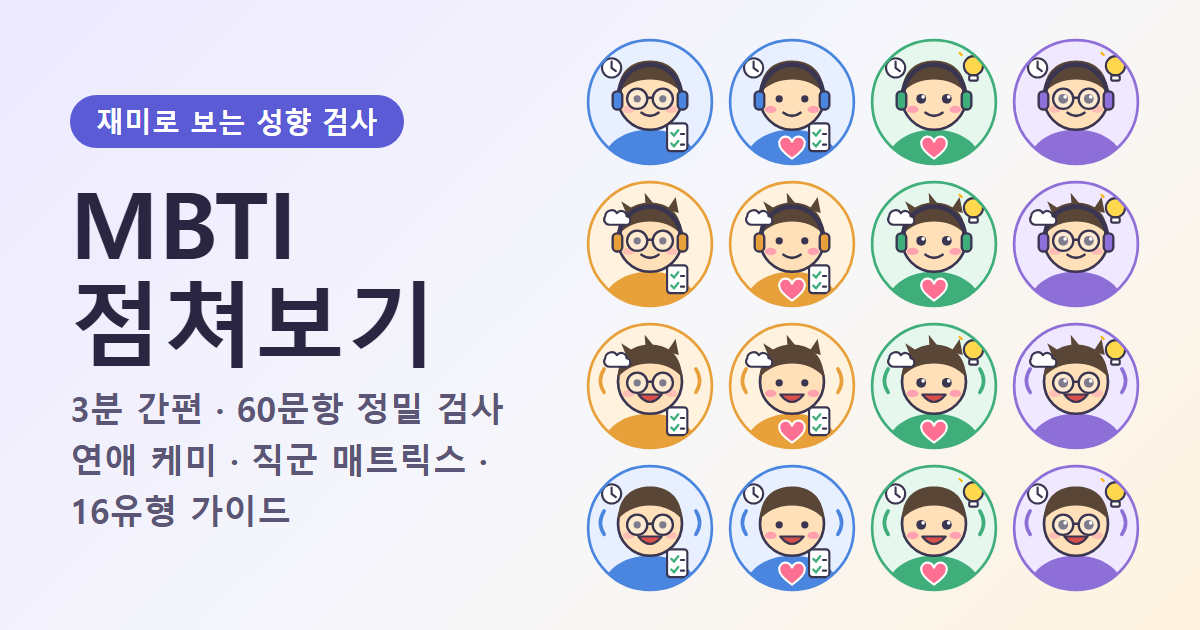
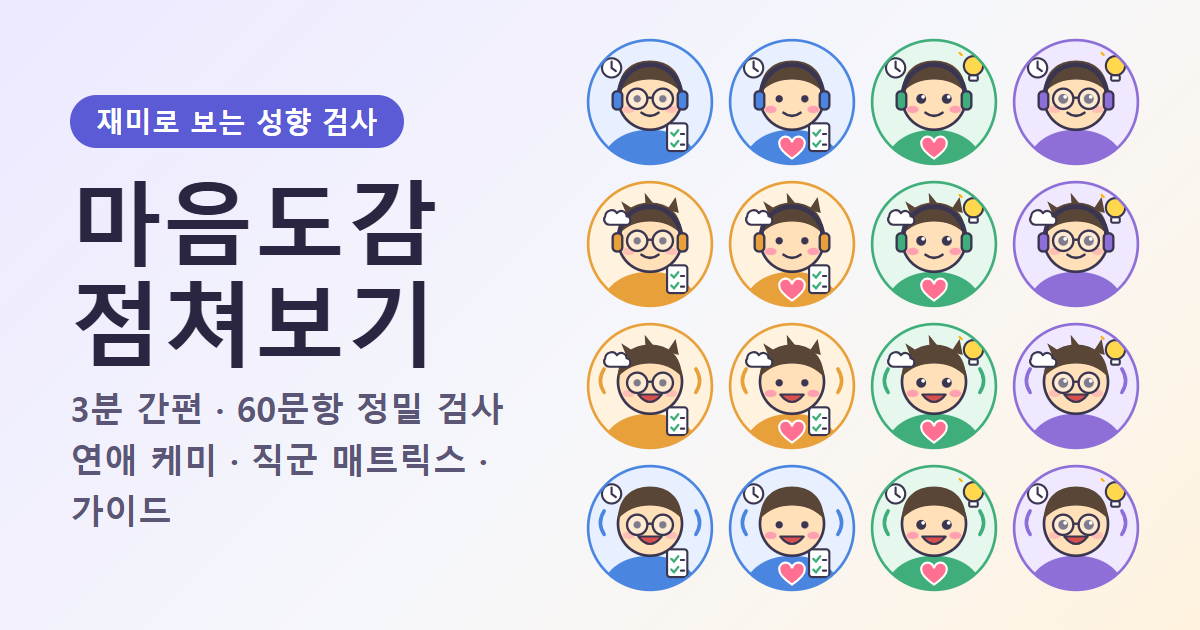
앱 이름 마음도감으로 변경, 부부 상황 추가, 점쳐보기 추천 직군 표시 수정

Changed region(s): [[0.0617, 0.2714, 0.37, 0.4222], [0.0617, 0.7841, 0.2467, 0.8444]]

diff --git a/index.html b/index.html
@@ -3,10 +3,10 @@
 <head>
 <meta charset="utf-8">
 <meta name="viewport" content="width=device-width, initial-scale=1">
-<title>MBTI 검사 (간편·정밀) & 16유형 가이드</title>
-<meta name="description" content="3분 간편 검사와 60문항 정밀 검사로 내 MBTI를 확인하고, 16유형별 성향·습관·직업·연애·공부법까지 한 곳에서.">
+<title>마음도감 — MBTI 스타일 성향 검사 & 16유형 캐릭터 점쳐보기</title>
+<meta name="description" content="마음도감: 3분 간편 검사와 60문항 정밀 검사로 내 MBTI 스타일 유형을 확인하고, 16유형별 성향·습관·직업·연애·공부법까지 한 곳에서.">
 <meta property="og:type" content="website">
-<meta property="og:title" content="MBTI 점쳐보기 · 간편·정밀 검사 + 연애 케미">
+<meta property="og:title" content="마음도감 · 16가지 마음 캐릭터와 점쳐보기">
 <meta property="og:description" content="3분 간편 · 60문항 정밀 검사, 연애 케미와 직군 매트릭스, 16유형 가이드. 재미로 보는 성향 검사예요.">
 <meta property="og:url" content="https://ckurusa.github.io/namidda_mbti/">
 <meta property="og:image" content="https://ckurusa.github.io/namidda_mbti/img/og.png">
@@ -18,13 +18,13 @@
 <div class="wrap">
 
 <header class="top">
-  <b>🧭 MBTI</b>
+  <b>🧭 마음도감</b>
   <nav><a href="#" id="nTest" onclick="navTest();return false">검사</a><a href="#lab" id="nLab">점쳐보기</a><a href="#guide" id="nGuide">유형 가이드</a></nav>
 </header>
 
 <!-- HOME -->
 <section id="home">
-  <h1>🧭 MBTI 성향 검사</h1>
+  <h1>🧭 마음도감</h1>
   <p class="sub">나의 성향을 알아보고, 생활에 적용하고, 자기계발 방법까지 찾아보세요. <a href="#guide">16유형 가이드 먼저 보기 →</a></p>
 
   <div class="modes">

diff --git a/js/data/lab.js b/js/data/lab.js
@@ -78,7 +78,7 @@ const PAIR = {
 const PAIR_TITLE = ["거울 같은 사이","결이 비슷한 사이","서로 보완하는 사이","정반대라 끌리는 사이","완전 정반대, 신기한 사이"];
 const HEART_LABEL = {5:"찰떡 케미",4:"잘 맞는 편",3:"무난 + 알콩달콩",2:"다름이 매력",1:"서로 배우는 사이"};
 
-/* 연애 상황 4개 × 상대 글자 8개 */
+/* 연애·부부 상황 5개 × 상대 글자 8개 */
 const STAGES = [
   {k:"crush",  icon:"💭", name:"짝사랑", care:"상대가 부담스러워 보이면 속도를 늦추는 게 먼저예요", tips:{
     E:"먼저 인사·가벼운 대화로 다가가면 반가워해요",
@@ -116,6 +116,15 @@ const STAGES = [
     F:"공감부터 해 주면 대화의 문이 다시 열려요",
     J:"깜짝 일정 말고 미리 정한 데이트를 만들어요",
     P:"틀을 깨는 즉흥 이벤트가 효과적이에요"}}
+  ,{k:"married", icon:"💍", name:"부부", care:"부부는 같이 사는 팀이에요. 서운함은 쌓지 말고 그날 나눠요", tips:{
+    E:"함께하는 외출·대화 시간을 일부러 만들어 줘요",
+    I:"각자 혼자 쉬는 시간을 지켜 주면 집이 편해져요",
+    S:"살림·돈·일정을 구체적으로 나누면 다툼이 줄어요",
+    N:"일상 얘기 말고 꿈·계획 얘기도 가끔 나눠 봐요",
+    T:"집안일 얘기는 감정보다 분담표처럼 정리해 봐요",
+    F:"‘고생했어·고마워’ 한마디가 하루를 풀어 줘요",
+    J:"가족 일정은 미리 공유하면 서로 마음이 편해요",
+    P:"빡빡한 규칙보다 여유 있는 약속이 오래가요"}}
 ];
 
 /* 상대 MBTI를 모를 때: 4문항 미니 퀴즈 ('그 사람'을 떠올리며) */

diff --git a/js/app.js b/js/app.js
@@ -1,14 +1,14 @@
 /* 앱 시작점: 해시 라우터 (#guide, #ISTJ, #lab, #lab/ENFP/love ...) — 가장 마지막에 로드 */
 function navTest(){ if(location.hash) location.hash=""; else home(); }
-const TITLE_HOME = "MBTI 검사 (간편·정밀) · 점쳐보기 · 16유형 가이드";
+const TITLE_HOME = "마음도감 — MBTI 스타일 성향 검사 · 점쳐보기 · 16유형 가이드";
 function route(){
   const parts = decodeURIComponent(location.hash.slice(1)).split("/");
   const h = parts[0].toUpperCase();
-  if (T[h]) { renderDetail(h); show("gdetail"); document.title = `${h} ${T[h].n} - 성향·습관·직업·연애·공부법 | MBTI 가이드`; }
-  else if (h==="GUIDE") { renderGuideList(); show("glist"); document.title = "MBTI 16유형 완전 가이드 · 성향 습관 직업 연애 공부법"; }
+  if (T[h]) { renderDetail(h); show("gdetail"); document.title = `${h} ${T[h].n} - 성향·습관·직업·연애·공부법 | 마음도감`; }
+  else if (h==="GUIDE") { renderGuideList(); show("glist"); document.title = "마음도감 · 16유형 완전 가이드 — 성향 습관 직업 연애 공부법"; }
   else if (h==="LAB") {   /* 화면을 먼저 보이게 한 뒤 그려야 매트릭스 스크롤 위치 계산이 맞다 */
     show("lab"); renderLab((parts[1]||"").toUpperCase(), (parts[2]||"").toLowerCase());
-    document.title = "MBTI 점쳐보기 · 연애 케미 · 직군 매트릭스";
+    document.title = "마음도감 · 점쳐보기 — 연애 케미 · 직군 매트릭스";
   }
   else { home(); document.title = TITLE_HOME; }
   window.scrollTo(0,0);

diff --git a/tests/run.js b/tests/run.js
@@ -117,7 +117,7 @@ for (const l of "ESNTFJIP") { tooLong(A.WPLUS[l], "WPLUS." + l); tooLong(A.WMINU
 for (const [k, v] of Object.entries(A.MOOD_TIP)) for (const [lv, s] of Object.entries(v)) tooLong(s, `MOOD_TIP.${k}.${lv}`);
 for (const st of A.STAGES) for (const l of "ESNTFJIP") tooLong(st.tips[l], `STAGES.${st.k}.${l}`);
 for (const [ax, v] of Object.entries(A.PAIR)) for (const [k, [t, d]] of Object.entries(v)) { tooLong(t, `PAIR.${ax}.${k}.title`); tooLong(d, `PAIR.${ax}.${k}.desc`); }
-ok(A.STAGES.length === 4 && A.JOBS.length === 12 && A.MINIQ.length === 4, "상황 4 · 직군 12 · 미니퀴즈 4");
+ok(A.STAGES.length === 5 && A.JOBS.length === 12 && A.MINIQ.length === 4, "상황 5 · 직군 12 · 미니퀴즈 4");
 for (const j of A.JOBS) tooLong(j.about, "JOBS.about " + j.id);
 
 /* ---------- 4-2) 톤 검사 (CLAUDE.md: 비하·결정론 금지, 재미용 표기, 존중 문구) ---------- */
@@ -267,7 +267,7 @@ for (const a of A.KEYS) for (const b of A.KEYS) for (const st of A.STAGES) {
   ok(r.axes.length === 4 && r.partnerTips.length === 4 && r.guess && r.mine && r.title && r.heartLabel, `연애 조언 구성 ${a}×${b}/${st.k}`);
   ok(r.hearts === A.pairScore(a, b), "하트 일치");
 }
-ok(adviceCount === 1024, "연애 조언 16×16×4 = 1024");
+ok(adviceCount === 1280, "연애 조언 16×16×5 = 1280");
 for (const t of A.KEYS) for (const j of A.JOBS) for (const m of A.MOODS) {
   const r = A.jobAdvice(t, j.id, m.k);
   ok(!/undefined|NaN/.test(JSON.stringify(r)), `직군 조언 ${t}/${j.id}/${m.k} 에 undefined`);

diff --git a/js/match.js b/js/match.js
@@ -17,7 +17,7 @@ function pairScore(a,b){
 }
 const heartsStr = n => "♥".repeat(n) + "♡".repeat(5-n);
 
-/* 상황별 조언: me(내 유형) · other(상대 유형) · stageKey(crush/some/dating/slump) */
+/* 상황별 조언: me(내 유형) · other(상대 유형) · stageKey(crush/some/dating/slump/married) */
 function pairAdvice(me, other, stageKey){
   const stage = STAGES.find(s=>s.k===stageKey) || STAGES[0];
   const ax = pairAxes(me, other);
@@ -33,6 +33,7 @@ function pairAdvice(me, other, stageKey){
     crush:  `상대 눈에 비친 내 첫인상은 ${SHORT[me].tags.map(t=>"#"+t).join(" ")} 일지도?`,
     some:   `이 관계의 키워드: ${axes.map(x=>x.t).join(" · ")}`,
     dating: `둘의 케미 한 줄 요약 — “${title}”`,
+    married:`부부로서의 케미 한 줄 요약 — “${title}”`,
     slump:  diffs.length ? `지금의 답답함은 ‘${first.t}’에서 올 수 있어요` : "너무 닮은 사이라 신선함이 줄어든 걸지도 몰라요"
   }[stage.k];
   return {

diff --git a/js/lab.js b/js/lab.js
@@ -127,7 +127,8 @@ function labJob(){
     <h3 class="sec">${MOODS.find(m=>m.k===S.mood).label.split(" ")[0]} 요즘의 나에게</h3>
     <p style="margin:0">${a.moodTip}</p>${a.moodNote ? `<p class="care">💡 ${a.moodNote}</p>` : ""}
     <h3 class="sec">🧭 이런 직군도 어울려요</h3>
-    <div>${a.alts.map(x=>`<button class="pill pbtn" onclick="labSet('job','${x.job.id}')">${x.job.icon} ${x.job.name} ${dotsStr(x.fit)}</button>`).join("")}</div>
+    ${a.alts.map(x=>`<div class="rankrow"><span class="ri">${x.job.icon}</span><div><b>${x.job.name}</b> <span class="dots" aria-label="적합도 ${x.fit}/5">${dotsStr(x.fit)}</span> <span class="sub">${FIT_LABEL[x.fit]}</span><div class="sub">${x.job.about}</div></div></div>`).join("")}
+    <p class="sub" style="margin:8px 0 0">다른 직군의 자세한 짐작은 위 ‘직군’ 목록에서 골라 보세요.</p>
   </div>`;
 }
 

diff --git a/js/share.js b/js/share.js
@@ -155,7 +155,7 @@ async function saveCard(spec, btn, how){
     const blob = await new Promise(res => c.toBlob(res, "image/png"));
     const file = new File([blob], spec.file, {type: "image/png"});
     if (how === "share" && navigator.canShare && navigator.canShare({files: [file]})) {
-      try { await navigator.share({files: [file], title: "MBTI"}); msg = "✅ 공유했어요"; }
+      try { await navigator.share({files: [file], title: "마음도감"}); msg = "✅ 공유했어요"; }
       catch (e) { msg = (e && e.name === "AbortError") ? label : "앗, 공유에 실패했어요"; }
     } else {
       const url = URL.createObjectURL(blob), a = document.createElement("a");

diff --git a/CLAUDE.md b/CLAUDE.md
@@ -1,5 +1,6 @@
-# MBTI 검사 & 16유형 가이드 (namidda_MBTI)
+# 마음도감 (namidda_MBTI) — 검사 & 16유형 가이드
 
+> 앱 이름은 **마음도감**(2026-11-22 결정). 이름에 "MBTI"를 붙이지 않는다(상표 회피) — 설명 문구에서만 "MBTI 스타일"로 쓴다. 저장소/주소는 그대로 `namidda_mbti`.
 간편(20문항)/정밀(60문항) MBTI 성향 검사 + 16유형 가이드 + **점쳐보기**(내 상황 입력 → 짐작·조언, 매트릭스).
 **재미 위주**의 서비스다. 블로그 독자를 이 앱으로 연결하는 것이 목적이며, 서버 없이 **정적 파일**로 동작한다.
 핵심 가치: 길게 읽히는 글이 아니라 **궁금해서 눌러 보게 되는 구성**(카드·타일·매트릭스·캐릭터).
@@ -85,7 +86,7 @@ tests/run.js          검증 테스트 (node tests/run.js)
 - 1점(♥1)도 “안 맞음”이 아니라 “서로 배우는 사이” 같은 **성장형 표현**을 쓴다.
 - 연애 조언에는 “참고용이며 상대와 직접 대화가 우선” 문구를 항상 붙인다. 집착·스토킹·학대 상황을 부추기거나 다루지 않는다.
 - **입력값(상대 MBTI, 직군, 상황)은 저장·전송하지 않는다.** 메모리에서만 쓴다(검사 기록 `mbti_hist` 는 기존대로).
-- 매트릭스 데이터는 비어 있는 칸이 없어야 한다: 직군 12 × 유형 16, 유형 16 × 16, 상황 4(짝사랑·썸·연애 중·권태기) × 글자 8.
+- 매트릭스 데이터는 비어 있는 칸이 없어야 한다: 직군 12 × 유형 16, 유형 16 × 16, 상황 5(짝사랑·썸·연애 중·권태기·부부) × 글자 8.
 
 ## 고지 문구 (삭제 금지)
 - 이 검사는 공식 MBTI®가 아닌 **자기 이해용 간이 검사**이며 진단이 아니다. 홈 화면 하단 문구와 궁합 안내를 유지한다.

diff --git a/README.md b/README.md
@@ -1,10 +1,10 @@
-# MBTI 검사 & 16유형 가이드
+# 마음도감 — MBTI 스타일 성향 검사 & 16유형 가이드
 
 **배포 주소:** https://ckurusa.github.io/namidda_mbti/
 
 - **간편 검사** 20문항(약 3분) / **정밀 검사** 60문항(약 10분)
 - 간편 검사에서 선호가 애매한 축만 추가 문항으로 **보완**
-- **점쳐보기:** 내 MBTI + 좋아하는 사람의 MBTI + 관계 상황(짝사랑·썸·연애 중·권태기) → 케미 지수와 조언, 내 직군 → 어울림 지수, 직군×유형 매트릭스, 16×16 케미 히트맵 (모두 재미용)
+- **점쳐보기:** 내 MBTI + 좋아하는 사람의 MBTI + 관계 상황(짝사랑·썸·연애 중·권태기·부부) → 케미 지수와 조언, 내 직군 → 어울림 지수, 직군×유형 매트릭스, 16×16 케미 히트맵 (모두 재미용)
 - **공유 이미지 카드:** 결과 카드와 케미 카드를 PNG 로 저장·공유 (브라우저 안에서만 만들어요)
 - **16유형 캐릭터:** 글자별 부품을 조합한 SVG 캐릭터 (외부 이미지 없음)
 - **검사 결과와 연동:** 결과 화면에서 바로 직장·직업, 연애, 학습법을 확인 (내 선호 강도에 맞춘 팁, 경계 축은 양쪽 모두)
